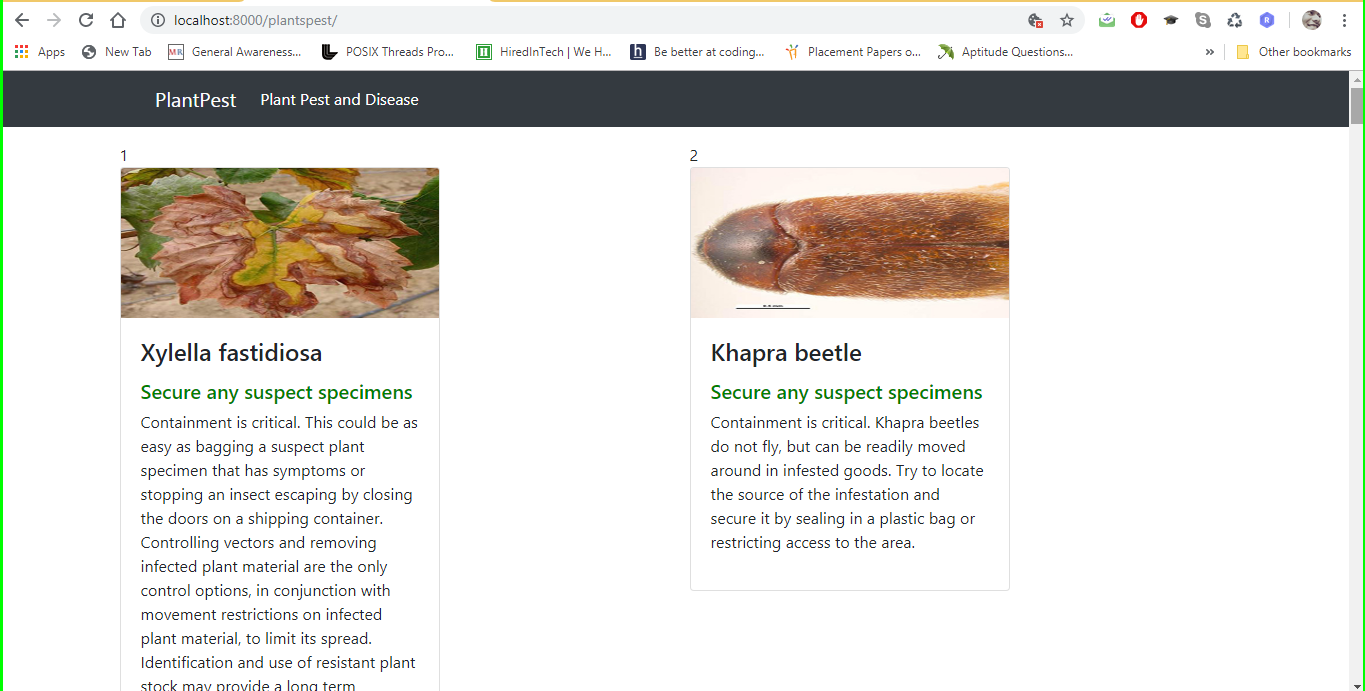
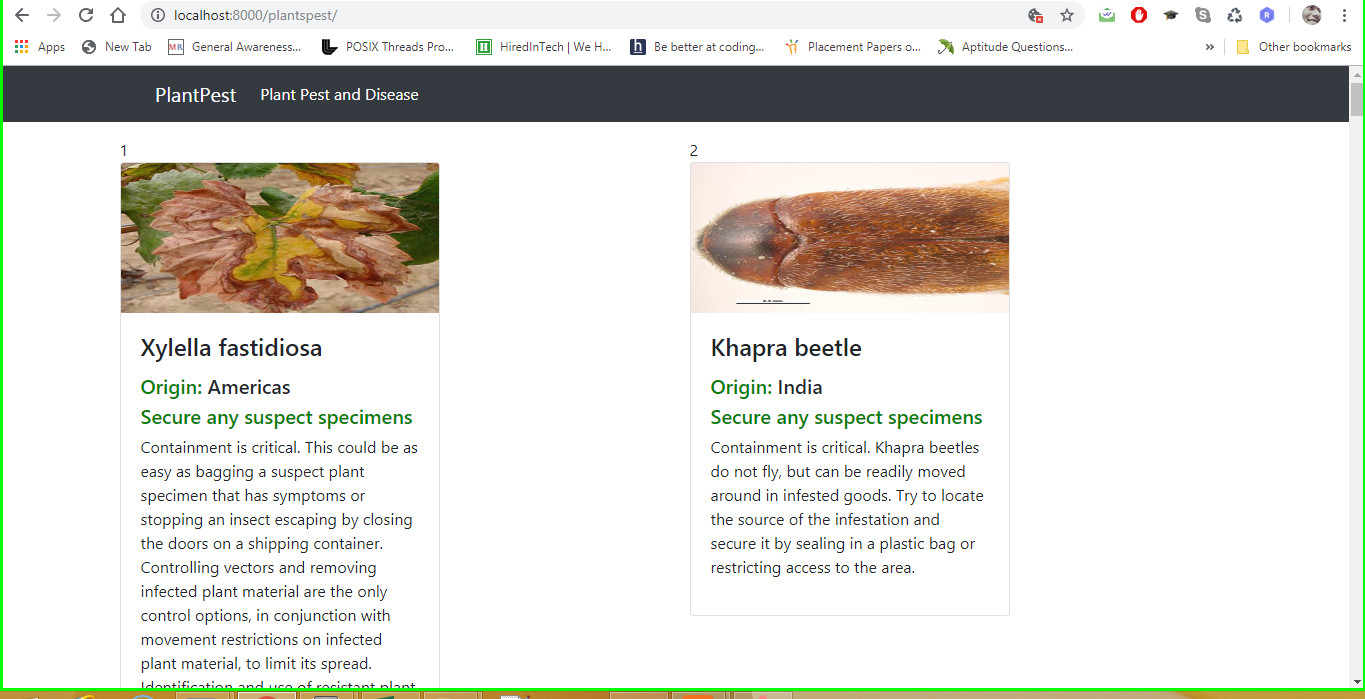
new images

diff --git a/src/exceltoweb/webcrawltoapp/templates/plantspest/snippets/card.html b/src/exceltoweb/webcrawltoapp/templates/plantspest/snippets/card.html
@@ -7,6 +7,8 @@
   <div class="card-body">
     <h4 class="card-title">{{ instance.Disease }}</h4>
    <p class="card-text"> 
+   <h5> <font color="Green">Origin:  </font>{{instance.Origin}}</h5>
+
    <h5> <font color="green">Secure any suspect specimens</font></h5>
    {{instance.Secure_any_suspect_specimens|linebreaks|truncatewords:300 }}</p>
  
